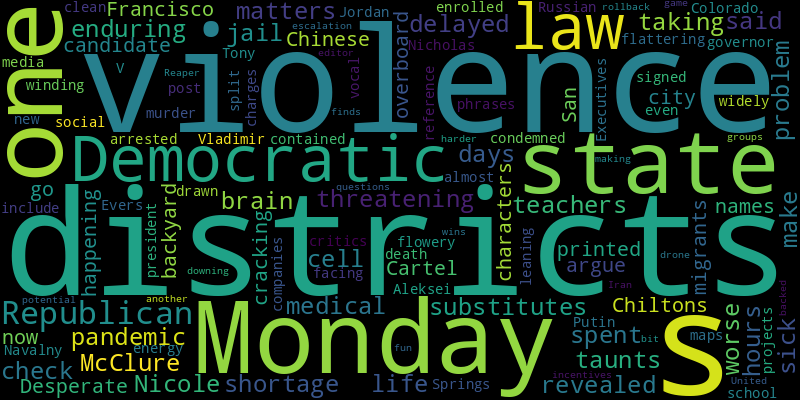
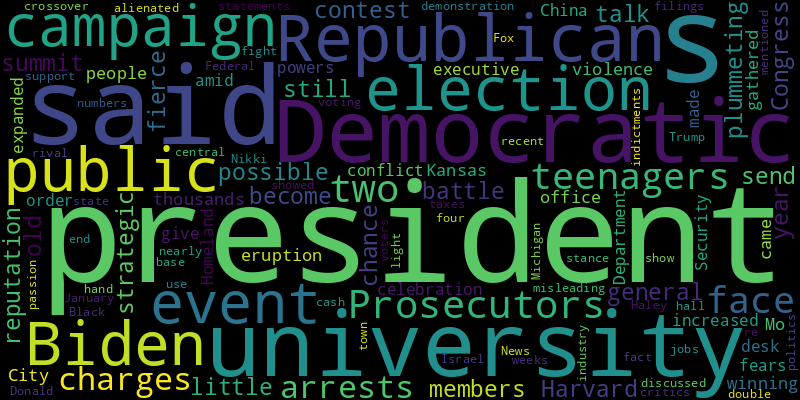
chore(bot): 🙈 auto commit

diff --git a/README.md b/README.md
@@ -2,41 +2,41 @@
 Auto RSS New York Times and Generate Word Cloud
 
 ## New York Times Global News
-* Trump. Indian food. Matthew Perry. And books, books, books. Excerpts from letters obtained by The Times show Mr. Navalny’s active mind, even amid brutal prison conditions.
-* The sudden death of Aleksei Navalny left a vacuum in Russia’s opposition. His wife, Yulia Navalnaya, signaled that she would try to fill the void.
-* Reducing access to Al Aqsa, the sacred mosque compound in Jerusalem that has long been a flashpoint for tensions, may set off unrest, some Israelis warned.
-* The continent has the highest rate of gender-related killings of women in the world, according to the United Nations. Activists accuse officials of ignoring the issue and blaming the victims.
-* The U.S. military said an anti-ship missile launched from Yemen damaged the ship, the Rubymar.
-* The group said it would not take part in a conference that also included women’s rights groups, the European Union and representatives of Afghan civil society.
-* The German politician has been European Commission president since 2019, becoming a key contact for the Biden administration.
-* Martine Moïse, the widow of President Jovenel Moïse, was charged by a Haitian judge with conspiring in his assassination. She was seriously injured in the attack.
-* Refugees who joined the largely overlooked Fatemiyoun Brigade to battle for Shiite Islam and escape crushing poverty had become a force in Tehran’s proxy wars.
-* Dozens of countries are expected to argue before the International Court of Justice about the legality of Israeli actions in the West Bank and East Jerusalem.
+* For the third time, the United States used its veto on the Security Council to kill a resolution demanding an immediate cease-fire in the Israel-Hamas war. Washington has proposed an alternative asking for a halt in fighting “as soon as practicable.”
+* The international police organization has toughened oversight of its protocols, which autocrats have used to pursue dissidents. But the autocrats have adapted.
+* The wife of Russia’s most famous opposition leader long shunned the spotlight, but his death in prison may make that impossible. “I have no right to give up,” she said.
+* The farmers are demonstrating against what they see as an influx of Ukrainian food products crowding the Polish market and undercutting their livelihood.
+* The apparent death in Spain of Maksim Kuzminov is likely to fuel speculation that it was the work of Russia’s intelligence services.
+* Julian Assange, the WikiLeaks founder, has been in prison for nearly 5 years, fighting a U.S. extradition order. A hearing is his last chance to be granted an appeal in Britain.
+* As the stench wafted more than a mile inland, the Society for the Prevention of Cruelty to Animals found a buildup of dung in the animals’ cramped holding pens.
+* Experts say it has to do with stadium safety and the influence of K-pop fan culture.
+* Officials hope an Olympic Village can transform a Paris suburb known for poverty and crime. But big plans have failed before.
+* An account created by Aleksei A. Navalny’s widow on Monday disappeared and then returned hours later. The social media company said the suspension had been a mistake.
 
 ![Global](./global.png)
 ## New York Times United States News
-* Nicole McClure said she spent hours in a jail cell, enduring taunts, until a delayed medical check revealed that she had a life-threatening problem with her brain.
-* In some districts, teachers are taking more sick days since the pandemic. A shortage of substitutes can make matters worse.
-* Desperate migrants. Cartel violence. It’s all happening in the Chiltons’ backyard.
-* San Francisco has printed candidate names in Chinese characters since 1999. But now the city is cracking down on ones that some argue go overboard with flattering, flowery phrases.
-* Nicholas Jordan, 25, who was enrolled at the school, was arrested on murder charges in Colorado Springs.
-* His winding social media post on Monday contained no reference to Vladimir V. Putin, the Russian president, who has been widely condemned after the death of one of his most vocal critics, Aleksei A. Navalny.
-* The new maps, which were drawn by the state’s Democratic governor, Tony Evers, and signed into law Monday, include an almost even split between Democratic- and Republican-leaning districts.
-* Executives of companies with clean energy projects are facing questions about the potential for a rollback of the law and its incentives if a Republican wins.
-* The downing of the Reaper drone is another escalation of violence between the United States and Iran-backed groups.
-* An editor finds fun by making the game just a bit harder for himself.
+* Prosecutors said two teenagers also face charges. More arrests are possible, they said.
+* At a summit of university presidents, the talk was about Harvard and its plummeting reputation.
+* A fierce contest between Democratic members of Congress has become a strategic battle that could send the 75-year-old Republican to the general election. He still has little chance of winning office, however.
+* The eruption of violence in Kansas City, Mo., came as thousands of people had gathered for a public celebration.
+* An executive order on the president’s desk would give expanded powers to the Department of Homeland Security amid increased fears of a conflict with China.
+* President Biden has made some misleading statements during campaign and public events in recent weeks as he discussed taxes, industry, jobs and more.
+* Nikki Haley could use crossover support in her fight against Donald Trump, but she has alienated the Black voters who are central to the state’s Democratic voting base.
+* Federal filings show the president’s re-election campaign had nearly double the cash on hand of his Republican rival at the end of January.
+* At the University of Michigan, a demonstration against President Biden’s stance on Israel showed his critics’ passion but was light on numbers.
+* At a Fox News town hall event, he mentioned his four indictments, which he said were “all because of the fact that I am in politics.”
 
 ![US](./usnews.png)
 ## New York Times Asia News
+* One of the first voices heard on the airwaves in Asia, he became recognized by generations of listeners in India over 42 years of broadcasting Bollywood music.
+* Pakistanis once thought of the military as the iron hand controlling the country’s politics. That illusion has been broken, creating one of the establishment’s biggest crises yet.
+* The South Pacific island of Niue says it was cheated out of .nu, a domain that turned out to be very lucrative on the other side of the world.
+* It and other foreign automakers are trying to exploit upheaval caused by new technology to gain market share from their dominant rivals.
+* Also, Julian Assange’s appeal and a U.S. cease-fire proposal in Gaza.
+* Experts say it has to do with stadium safety and the influence of K-pop fan culture.
 * Hong Kong residents are finding in Shenzhen, the mainland city next door, lower prices, better service and tasty cuisine.
 * Physicians say the government’s plan to admit more students to medical school ignores the real cause of doctor shortages: harsh conditions and low wages.
 * Also, Israel may restrict access to the Aqsa mosque during Ramadan.
 * The group said it would not take part in a conference that also included women’s rights groups, the European Union and representatives of Afghan civil society.
-* Delays in finishing new factories are emerging, just as the Biden administration begins handing out money to stoke domestic production.
-* The bloodshed in Enga Province, which has been plagued by violence between tribal groups, left at least 26 people dead, according to the authorities.
-* Also, Russians mourn Aleksei Navalny.
-* The surprising confession appeared to lend weight to accusations by Imran Khan’s party that the military had tampered with the vote count in dozens of races.
-* Thaksin Shinawatra, a divisive and compelling figure even in his years of exile, was once hailed as a champion of the common people. His recent moves have disillusioned followers.
-* Volkswagen and BASF, two German giants, are reassessing their activities in the region, where the Chinese government has cracked down on Muslim minorities.
 
 ![Asian](./asian.png)
